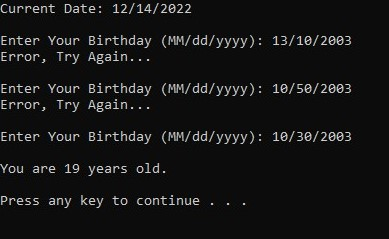
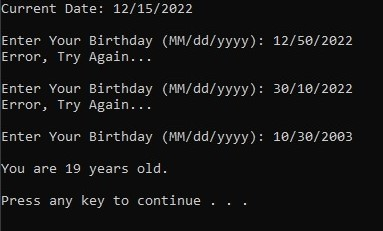
init

diff --git a/ageidentifier.java b/ageidentifier.java
@@ -10,15 +10,15 @@ public class ageidentifier {
         DateTimeFormatter dtf = DateTimeFormatter.ofPattern("MM/dd/yyyy");
         LocalDateTime now = LocalDateTime.now();
 
-        String dateNow = dtf.format(now);
-        System.out.println("Current Date: " + dateNow);
-
         int mybday[] = new int[3];
         int currdate[] = new int[3];
 
         boolean datevalid = true;
         String birthday = "";
-        
+
+        String dateNow = dtf.format(now);
+        System.out.println("Current Date: " + dateNow);
+
         do {
             try {
                 System.out.print("\nEnter Your Birthday (MM/dd/yyyy): ");
@@ -44,7 +44,13 @@ public class ageidentifier {
 
         int age = currdate[2] - mybday[2];
 
+        if (mybday[0] > currdate[0]) {
+            age--;
+        } else if (mybday[0] == currdate[0]) {
+            if (mybday[1] > currdate[1]) {
+                age--;
+            }
+        }
         System.out.println("\nYou are " + age + " years old. " + "\n");
-
     }
 }
